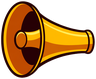
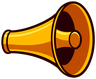
メニューに所持アイテム確認（捨てる機能つき）を追加・行の体裁を統一
- ☰メニューに「所持アイテム確認」を追加。消費アイテムを名前と効果つきで一覧し、
  各行から捨てられる。持ち物がいっぱいでショップの品を買えない状況を解消
- 誤タップ防止に2段階（1回目は「本当に捨てる？」表示・3秒で自動解除）
- メニュー4行を menuBtn() に集約。アイコン幅を固定した左ぞろえにして
  見出しの開始位置を揃え、右端に補助表示（2/3・9個）を並べた
- サウンドのメガホンアイコンを左右反転（生成プロンプトも合わせて更新）

smoke_consum.py を追加（空表示・一覧・2段階確認・自動解除を検証）

diff --git a/index.html b/index.html
@@ -1556,6 +1556,23 @@ function DropBattle() {
   const [campfire, setCampfire] = useState(null); // null | "menu" | "remove" | "forge"
   const campfireRef = useRef(null); campfireRef.current = campfire;
   const [bagOpen, setBagOpen] = useState(false);
+  const [consumOpen, setConsumOpen] = useState(false);
+  const [dropArm, setDropArm] = useState(-1); // 「捨てる」の確認待ちインデックス（誤タップ防止の2段階）
+  const dropArmTimer = useRef(null);
+  const armDrop = i => {
+    if (dropArmTimer.current) clearTimeout(dropArmTimer.current);
+    setDropArm(i); SFX.tap();
+    dropArmTimer.current = setTimeout(() => setDropArm(-1), 3000); // 3秒で解除
+  };
+  const dropItem = i => {
+    if (dropArmTimer.current) clearTimeout(dropArmTimer.current);
+    const k = itemsRef.current[i];
+    if (!k) return;
+    setDropArm(-1);
+    setItemsBoth(itemsRef.current.filter((_, idx) => idx !== i));
+    SFX.tap();
+    addLog([`🗑 ${CONSUM[k].name}を捨てた`]);
+  };
   const [relicOpen, setRelicOpen] = useState(false);
   const [sfxOn, setSfxOn] = useState(sfxEnabled);
   const [bgmOnView, setBgmOnView] = useState(bgmOn);
@@ -3745,6 +3762,16 @@ function DropBattle() {
       soundRow("BGM", "assets/icon_note.png", bgmOnView, toggleBgm, bgmVolView, changeBgmVol, null),
       soundRow("効果音", "assets/icon_speaker.png", sfxOn, toggleSfx, sfxVolView, changeSfxVol, () => SFX.tap()),
       h("p", { className:"text-[9px] mt-1", style:{ opacity:0.5 } }, "アイコンでON/OFF・スライダーで音量。設定は端末に保存されます。"))));
+  // メニューの行。アイコン幅を固定して見出しの開始位置を揃える（右端は任意の補助表示）
+  const menuBtn = (img, label, onClick, right, muted) =>
+    h("button", { key:label, onClick,
+      className:"w-full rounded-xl py-2.5 px-3 font-bold text-sm mb-2 flex items-center",
+      style:{ background:"rgba(255,255,255,.08)", color: muted ? "#c9bfe0" : "#f0e4c8", border:"2px solid #453b5c", fontFamily:"inherit", textAlign:"left", gap:14 } },
+      h("span", { style:{ width:22, flexShrink:0, display:"flex", alignItems:"center", justifyContent:"center" } },
+        img ? Ic(img, 20) : null),
+      h("span", { style:{ flex:1 } }, label),
+      right && h("span", { style:{ flexShrink:0, fontSize:"0.72rem", opacity:0.65, fontVariantNumeric:"tabular-nums" } }, right));
+
   // 章の導入（読み込みが済んでいなければそのぶん長く出る）。タップで飛ばせる
   // 出るときはフェードなし（明るいマップのチラつき防止）。消えるときだけフェードアウト
   if (actIntro) overlays.push(h("div", { key:"actintro", "data-actintro":"1", className:"fixed inset-0 flex flex-col items-center justify-center",
@@ -3756,17 +3783,10 @@ function DropBattle() {
       h("div", { className:"flex justify-between items-center mb-3" },
         h("span", { className:"font-bold flex items-center gap-1.5", style:{ color:"#ffcf5d", fontSize:"1.05rem" } }, "☰ メニュー"),
         h("button", { onClick: () => setMenuOpen(false), className:"text-xs px-3 py-1 rounded-lg", style:{ background:"rgba(255,255,255,.12)" } }, "閉じる")),
-      h("button", { onClick: () => { setMenuOpen(false); setBagOpen(true); SFX.open(); },
-        className:"w-full rounded-xl py-2.5 font-bold text-sm mb-2 flex items-center justify-center gap-1.5",
-        style:{ background:"rgba(255,255,255,.08)", color:"#f0e4c8", border:"2px solid #453b5c", fontFamily:"inherit" } },
-        Ic("assets/icon_bag.png", 15), "特殊ドロップの確認"),
-      h("button", { onClick: () => { setMenuOpen(false); setSoundOpen(true); SFX.open(); },
-        className:"w-full rounded-xl py-2.5 font-bold text-sm mb-2 flex items-center justify-center gap-1.5",
-        style:{ background:"rgba(255,255,255,.08)", color:"#f0e4c8", border:"2px solid #453b5c", fontFamily:"inherit" } },
-        Ic("assets/icon_speaker.png", 15), "サウンド設定"),
-      h("button", { onClick: suspendRun,
-        className:"w-full rounded-xl py-2.5 font-bold text-sm",
-        style:{ background:"rgba(255,255,255,.08)", color:"#c9bfe0", border:"2px solid #453b5c", fontFamily:"inherit" } }, "冒険を中断してタイトルへ"),
+      menuBtn("assets/cs_potion.png", "所持アイテム確認", () => { setMenuOpen(false); setDropArm(-1); setConsumOpen(true); SFX.open(); }, `${items.length}/${itemCap()}`),
+      menuBtn("assets/icon_bag.png", "特殊ドロップの確認", () => { setMenuOpen(false); setBagOpen(true); SFX.open(); }, `${ownedTotal}個`),
+      menuBtn("assets/icon_speaker.png", "サウンド設定", () => { setMenuOpen(false); setSoundOpen(true); SFX.open(); }),
+      menuBtn(null, "冒険を中断してタイトルへ", suspendRun, null, true),
       h("p", { className:"text-[9px] mt-1", style:{ opacity:0.5 } },
         "進行はマップ到達時点まで自動保存。キャラ選択で「続きから」再開できます（バトル中の進行は保存されません）。"),
       h("button", { onClick: () => { setMenuOpen(false); SFX.tap(); },
@@ -3783,6 +3803,27 @@ function DropBattle() {
           h("span", { className:"flex-1" },
             h("span", { className:"font-bold text-sm block", style:{ color:"#e8c06a" } }, RELICS[k].name),
             h("span", { className:"block text-[11px]", style:{ opacity:0.85, lineHeight:1.5 } }, RELICS[k].desc))))))));
+  // 所持アイテム（消費アイテム）の確認と処分
+  if (consumOpen) overlays.push(h("div", { key:"consum", className:"fixed inset-0 flex items-center justify-center px-5 fade-in", style:{ background:"rgba(8,4,14,.85)", zIndex:60 }, onClick: () => { setConsumOpen(false); setDropArm(-1); } },
+    h("div", { className:"w-full rounded-2xl p-4 pop-in", style:{ maxWidth:360, maxHeight:"82vh", overflowY:"auto", WebkitOverflowScrolling:"touch", overscrollBehavior:"contain", background:"rgba(30,24,42,.98)", border:"2px solid #8a6f3c" }, onClick: e => e.stopPropagation() },
+      h("div", { className:"flex justify-between items-center mb-2" },
+        h("span", { className:"font-bold flex items-center gap-1.5", style:{ color:"#ffcf5d", fontSize:"1.05rem" } }, Ic("assets/cs_potion.png", 18), "所持アイテム（", items.length, "/", itemCap(), "）"),
+        h("button", { onClick: () => { setConsumOpen(false); setDropArm(-1); }, className:"text-xs px-3 py-1 rounded-lg", style:{ background:"rgba(255,255,255,.12)" } }, "閉じる")),
+      items.length === 0
+        ? h("p", { className:"text-center text-[11px] py-6", style:{ opacity:0.6 } }, "アイテムを持っていない。ショップや宝箱で手に入る。")
+        : h("div", { className:"flex flex-col gap-2" }, items.map((k, i) => {
+            const c = CONSUM[k], armed = dropArm === i;
+            return h("div", { key:k + i, className:"flex items-center gap-3 rounded-xl px-3 py-2", style:{ background:"rgba(255,255,255,.05)", border:`1px solid ${armed ? "#e0705a" : "#6e5a3c"}` } },
+              h("img", { src:c.img, alt:"", draggable:false, style:{ width:26, height:26, objectFit:"contain", flexShrink:0, filter:"drop-shadow(0 1px 1px rgba(0,0,0,.5))" } }),
+              h("span", { className:"flex-1", style:{ minWidth:0 } },
+                h("span", { className:"font-bold text-sm block", style:{ color:"#ffcf5d" } }, c.name),
+                h("span", { className:"block text-[10px]", style:{ opacity:0.78, lineHeight:1.5 } }, c.desc)),
+              h("button", { onClick: () => (armed ? dropItem(i) : armDrop(i)),
+                className:"rounded-lg px-2.5 py-1.5 text-[10px] font-bold", style:{ flexShrink:0, fontFamily:"inherit",
+                  background: armed ? "linear-gradient(180deg,#e0705a,#a8402e)" : "rgba(255,255,255,.07)",
+                  color: armed ? "#fff2ec" : "#c9bfe0", border:`1px solid ${armed ? "#8a3826" : "#453b5c"}` } },
+                armed ? "本当に捨てる？" : "捨てる"));
+          })))));
   if (bagOpen) overlays.push(h("div", { key:"bag", className:"fixed inset-0 flex items-center justify-center px-5 fade-in", style:{ background:"rgba(8,4,14,.85)", zIndex:60 }, onClick: () => setBagOpen(false) },
     h("div", { className:"w-full rounded-2xl p-4 pop-in", style:{ maxWidth:360, maxHeight:"82vh", overflowY:"auto", WebkitOverflowScrolling:"touch", overscrollBehavior:"contain", background:"rgba(30,24,42,.98)", border:"2px solid #8a6f3c" }, onClick: e => e.stopPropagation() },
       h("div", { className:"flex justify-between items-center mb-1" },

diff --git a/smoke_consum.py b/smoke_consum.py
@@ -1,0 +1,62 @@
+# -*- coding: utf-8 -*-
+import time
+from playwright.sync_api import sync_playwright
+EXE = r"C:\Users\2000h\AppData\Local\ms-playwright\chromium_headless_shell-1223\chrome-headless-shell-win64\chrome-headless-shell.exe"
+URL = "file:///C:/Users/2000h/Downloads/dropbattle-rogue/index.html?test=1"
+SHOT = r"C:\Users\2000h\AppData\Local\Temp\claude\C--Users-2000h\5fa01898-a7fd-44b5-bb24-da1f2a31a8a1\scratchpad"
+errs=[]
+def st(page): return page.evaluate("window.__test.state()")
+with sync_playwright() as p:
+    b = p.chromium.launch(executable_path=EXE)
+    page = b.new_page(viewport={"width":420,"height":900})
+    page.on("pageerror", lambda e: errs.append(str(e)))
+    page.on("console", lambda m: errs.append(m.text) if m.type=="error" else None)
+    page.goto(URL)
+    page.wait_for_selector("text=冒険に出る", timeout=20000)
+    page.click("text=冒険に出る"); page.click("text=この仲間と冒険に出る")
+    t0=time.time()
+    while time.time()-t0<20:
+        if st(page)["status"]=="map": break
+        time.sleep(0.2)
+    while page.evaluate('!!document.querySelector("[data-actintro]")'): time.sleep(0.05)
+    s=st(page); page.evaluate(f"window.__test.enter({s['selectable'][0]})")
+    t0=time.time()
+    while time.time()-t0<20:
+        if st(page)["status"]=="battle": break
+        time.sleep(0.2)
+    # 空の状態
+    page.click("[aria-label=メニュー]"); time.sleep(0.4)
+    page.click("text=所持アイテム確認"); time.sleep(0.4)
+    assert "アイテムを持っていない" in page.inner_text("body"), "empty state missing"
+    page.screenshot(path=SHOT+r"\consum_empty.png")
+    print("1 空の状態 OK")
+    page.click("text=閉じる"); time.sleep(0.3)
+    # アイテムを3個渡す
+    for k in ["potion","bomb","stun"]:
+        page.evaluate("window.__test.giveItem('%s')" % k)
+    time.sleep(0.4)
+    page.click("[aria-label=メニュー]"); time.sleep(0.4)
+    page.click("text=所持アイテム確認"); time.sleep(0.4)
+    page.screenshot(path=SHOT+r"\consum_list.png")
+    n = page.locator("button:text-is('捨てる')").count()
+    assert n == 3, "捨てるボタンが3つない: %d" % n
+    print("2 一覧3件 OK")
+    # 1回目のタップでは消えない（確認待ち）
+    page.locator("button:text-is('捨てる')").first.click(); time.sleep(0.3)
+    assert page.evaluate("window.__test.state().items.length") == 3, "1タップで消えてしまった"
+    assert page.locator("button:text-is('本当に捨てる？')").count() == 1, "確認表示が出ていない"
+    page.screenshot(path=SHOT+r"\consum_armed.png")
+    print("3 1タップ目は確認のみ OK")
+    # 2回目で削除
+    page.locator("button:text-is('本当に捨てる？')").click(); time.sleep(0.4)
+    items = page.evaluate("window.__test.state().items")
+    assert len(items) == 2 and "potion" not in items, "捨てられていない: %s" % items
+    print("4 2タップ目で削除 OK:", items)
+    # 3秒放置で確認解除
+    page.locator("button:text-is('捨てる')").first.click(); time.sleep(3.4)
+    assert page.locator("button:text-is('本当に捨てる？')").count() == 0, "確認が自動解除されない"
+    assert len(page.evaluate("window.__test.state().items")) == 2, "放置で消えた"
+    print("5 3秒で確認解除 OK")
+    print("errors:", errs)
+    b.close()
+print("ALL CONSUM OK")

diff --git a/gen_ui_icons.py b/gen_ui_icons.py
@@ -30,7 +30,7 @@ JOBS = {
     "icon_coin":    "A single thick gold coin with an embossed six-pointed star stamp, slightly tilted.",
     "icon_bag":     "A plump brown leather drawstring pouch tied at the top with a rope.",
     "icon_note":    "A single golden musical note symbol with a round note head and a curved flag on the stem, flat bold design.",
-    "icon_speaker": "An ornate golden brass horn megaphone held sideways, wide bell opening facing left, hovering, nothing underneath.",
+    "icon_speaker": "An ornate golden brass horn megaphone held sideways, wide bell opening facing right, hovering, nothing underneath.",
     # ―― 盤面特殊ドロップのマーク ――
     "mk_star":   "A classic bold five-pointed golden star shape, flat yellow gold fill with an orange bottom shade, single star symbol.",
     "mk_plus":   "A bold bright teal plus cross symbol with slightly rounded ends.",